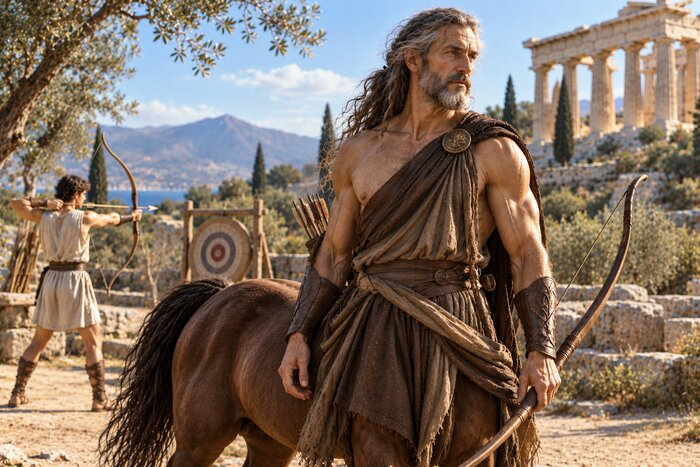
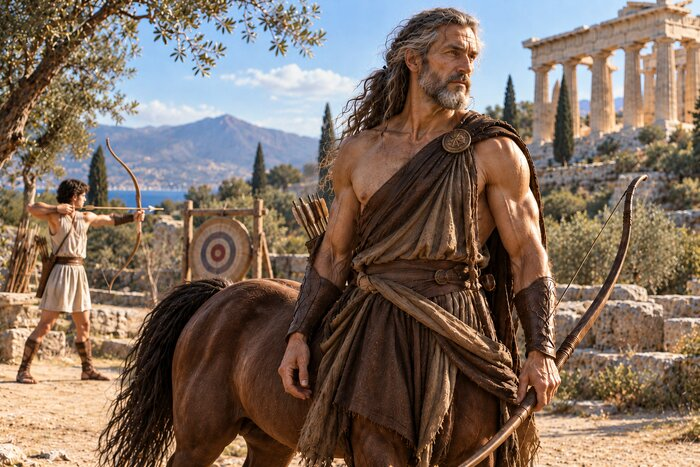
Remplace le portrait de Chiron, recadré sur son visage
Claude-Session: https://claude.ai/code/session_01RmV4NQeKHMug67uKaeW5hA

diff --git a/service-worker.js b/service-worker.js
@@ -1,4 +1,4 @@
-const CACHE="pantheon-v220";
+const CACHE="pantheon-v221";
 const ASSETS=["./","./index.html","./styles.css","./app.js","./manifest.json","./icon.svg","./icon-192.png","./icon-512.png","./icon-180.png","./politique-confidentialite.html","./assets/hero-olympians.jpg","./assets/badge-home-temple.webp","./assets/badge-figures-portrait.webp","./assets/badge-symbols-lyre.webp","./assets/badge-genealogy-mother.webp","./assets/badge-places-map.webp","./assets/badge-quiz-contact.webp","./assets/badge-genealogy-tree-link.webp","./assets/home-olive-branch.webp","./assets/symbol-abeille.webp","./assets/symbol-aigle.webp","./assets/symbol-ailes.webp","./assets/symbol-air.webp","./assets/symbol-araignee.webp","./assets/symbol-arc.webp","./assets/symbol-arc-en-ciel.webp","./assets/symbol-aurore.webp","./assets/symbol-balance.webp","./assets/symbol-belier.webp","./assets/symbol-ble.webp","./assets/symbol-caduceus.webp","./assets/symbol-carrefour.webp","./assets/symbol-cerf.webp","./assets/symbol-chaine.webp","./assets/symbol-char.webp","./assets/symbol-char-solaire.webp","./assets/symbol-chemin.webp","./assets/symbol-chene.webp","./assets/symbol-cheval.webp","./assets/symbol-chevre.webp","./assets/symbol-chien.webp","./assets/symbol-chouette.webp","./assets/symbol-cle.webp","./assets/symbol-colombe.webp","./assets/symbol-corbeau.webp","./assets/symbol-couronne.webp","./assets/symbol-crabe.webp","./assets/symbol-cygne.webp","./assets/symbol-corne-abondance.webp","./assets/symbol-eau.webp","./assets/symbol-dauphin.webp","./assets/symbol-cypres.webp","./assets/symbol-egide.webp","./assets/symbol-eclair.webp","./assets/symbol-eclipse.webp","./assets/symbol-etoile.webp","./assets/symbol-feu.webp","./assets/symbol-figue.webp","./assets/symbol-fil.webp","./assets/symbol-fleche.webp","./assets/symbol-crocus.webp","./assets/symbol-narcisse-fleur.webp","./assets/symbol-flute.webp","./assets/symbol-foret.webp","./assets/symbol-graine.webp","./assets/symbol-grenade.webp","./assets/symbol-grotte.webp","./assets/symbol-labyrinthe.webp","./assets/symbol-lance.webp","./assets/symbol-lanterne.webp","./assets/symbol-foudre.webp","./assets/symbol-laurier.webp","./assets/symbol-lierre.webp","./assets/symbol-lion.webp","./assets/symbol-lotus.webp","./assets/symbol-lune.webp","./assets/symbol-lyre.webp","./assets/symbol-miroir.webp","./assets/symbol-myrte.webp","./assets/symbol-noix.webp","./assets/symbol-olive.webp","./assets/symbol-olivier.webp","./assets/symbol-ouroboros.webp","./assets/symbol-paon.webp","./assets/symbol-papillon.webp","./assets/symbol-pavot.webp","./assets/symbol-pegase.webp","./assets/symbol-poisson.webp","./assets/symbol-pomme.webp","./assets/symbol-pont.webp","./assets/symbol-porte.webp","./assets/symbol-raisin.webp","./assets/symbol-riviere.webp","./assets/symbol-rose.webp","./assets/symbol-roue.webp","./assets/symbol-sanglier.webp","./assets/symbol-sceptre.webp","./assets/symbol-scorpion.webp","./assets/symbol-serpent.webp","./assets/symbol-soleil.webp","./assets/symbol-taureau.webp","./assets/symbol-temple.webp","./assets/symbol-terre.webp","./assets/symbol-torche.webp","./assets/symbol-torches.webp","./assets/symbol-trident.webp","./assets/symbol-vigne.webp","./assets/symbol-voile.webp","./assets/map-icon-sanctuaire.webp","./assets/map-icon-montagne.webp","./assets/map-icon-cite.webp","./assets/map-icon-ile.webp","./assets/map-icon-detroit.webp","./assets/map-icon-source.webp","./assets/map-icon-souterrain.webp"];
 
 self.addEventListener("install",event=>{

diff --git a/app.js b/app.js
@@ -863,7 +863,7 @@ const SYMBOL_INLINE_ILLUSTRATIONS = {
     { match: "Cerbère", src: "assets/deity-cerbere.webp", alt: "Cerbère, le chien à trois têtes qui garde l'entrée des Enfers" },
   ],
 };
-const DEITY_PORTRAIT_WIDE = new Set(["muses", "pâris", "orion", "heures", "parques", "hersé", "amazones", "penthésilée", "castor", "pollux", "amphion", "zéthos", "aphrodite", "antiope-thébaine", "antigone", "artémis", "arachné", "thésée", "éole", "gorgones", "grées", "chiron", "cyclopes", "cyllaros"]);
+const DEITY_PORTRAIT_WIDE = new Set(["muses", "pâris", "orion", "heures", "parques", "hersé", "amazones", "penthésilée", "castor", "pollux", "amphion", "zéthos", "aphrodite", "antiope-thébaine", "antigone", "artémis", "arachné", "thésée", "éole", "gorgones", "grées", "cyclopes", "cyllaros"]);
 const DEITY_INLINE_PORTRAITS = {
   "dionysos": [
     { match: "Ménades", src: "assets/deity-dionysos-cortege.jpg", alt: "Le cortège de Dionysos" },
@@ -2552,6 +2552,10 @@ const DEITY_PORTRAIT_FOCUS = {
   "minos": { x: 48, y: 15, zoom: 1.4 },
   "phèdre": { x: 32, y: 22, zoom: 1.4 },
   "cronos": { x: 50, y: 20, zoom: 1.4 },
+  // Portrait fourni par l'utilisatrice : scène large (archer en arrière-plan, temple), visage
+  // de Chiron décentré à droite dans le tiers supérieur — retour direct : « fais bien
+  // attention que le vignetage soit centré sur son visage ».
+  "chiron": { x: 66, y: 7, zoom: 1.6 },
 };
 const DEITY_PORTRAIT_FOCUS_DEFAULT = { x: 50, y: 18, zoom: 1.4 };
 

diff --git a/README.md b/README.md
@@ -6337,3 +6337,16 @@ dupliqué sur l'ensemble du site après intégration.
 `api/_data/content.json` (Panthéon) : reformulation du paragraphe de la libération sur la
 fiche Prométhée.
 `service-worker.js` (Panthéon) : `pantheon-v219` → `pantheon-v220`.
+
+## 2026-10-25 — Remplacement du portrait de Chiron, recadrage sur le visage
+
+Nouvelle image fournie par la propriétaire, avec demande explicite d'un vignetage centré
+sur le visage plutôt que la scène entière. Chiron quitte donc `DEITY_PORTRAIT_WIDE` pour
+le recadrage 4:5 habituel, avec un point focal dédié dans `DEITY_PORTRAIT_FOCUS`.
+
+Vérifié en local (clair et sombre) : visage bien centré dans le cadrage.
+
+`app.js` (Panthéon) : retrait de `"chiron"` de `DEITY_PORTRAIT_WIDE`, ajout à
+`DEITY_PORTRAIT_FOCUS`.
+`assets/deity-chiron.jpg` : image remplacée.
+`service-worker.js` (Panthéon) : `pantheon-v220` → `pantheon-v221`.
